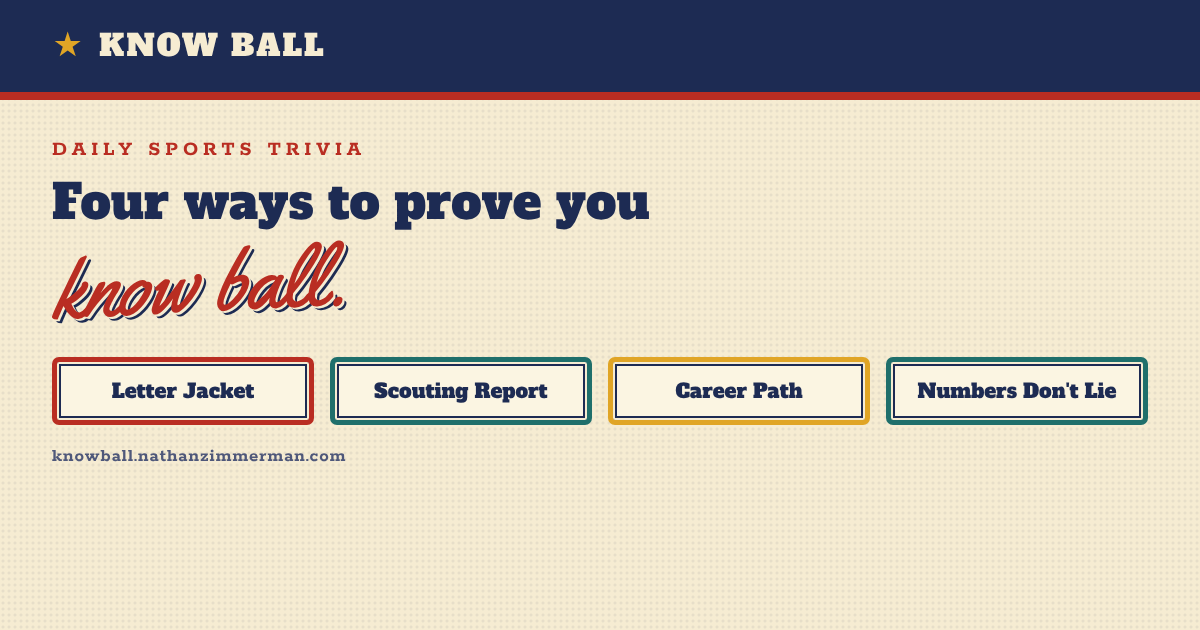
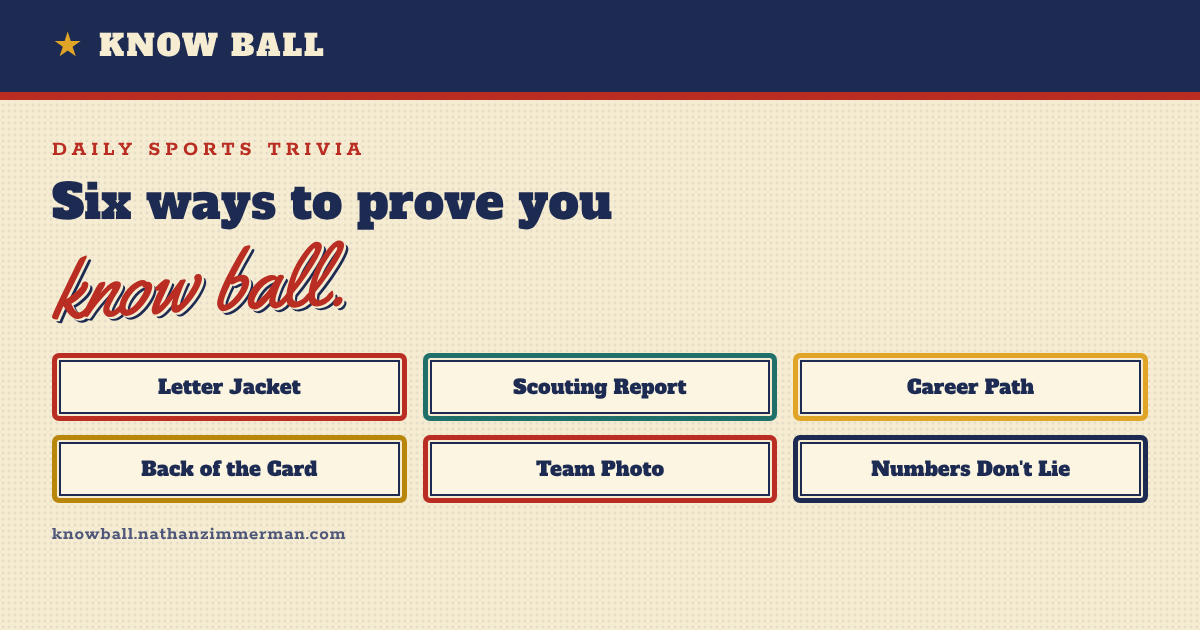
Say six games in the page description, share preview and README
The search description, the link preview text and image, and the app
manifest still described four games. The preview image is rebuilt from
its script with all six.

Claude-Session: https://claude.ai/code/session_01LorK6dxVKRJbxz4FyzsbjC

Changed region(s): [[0.0308, 0.5429, 0.9558, 0.8143], [0.0308, 0.2714, 0.555, 0.3619], [0.0308, 0.8444, 0.2775, 0.8746]]

diff --git a/web/know-ball/src/index.html b/web/know-ball/src/index.html
@@ -6,16 +6,16 @@
   <base href="/">
   <meta name="viewport" content="width=device-width, initial-scale=1, viewport-fit=cover">
   <meta name="theme-color" content="#1d2b53">
-  <meta name="description" content="Four ways to prove you know ball: guess the player, trace the career, find the sports word, and test your sports knowledge.">
+  <meta name="description" content="Six ways to prove you know ball: four daily guess-the-player games, a daily sports quiz and a sports word game you can play anytime.">
   <meta property="og:type" content="website">
   <meta property="og:site_name" content="Know Ball">
   <meta property="og:title" content="Know Ball — Daily Sports Trivia">
-  <meta property="og:description" content="Four ways to prove you know ball: Scouting Report, Career Path, Letter Jacket, and Numbers Don't Lie.">
+  <meta property="og:description" content="Six ways to prove you know ball: Scouting Report, Career Path, Back of the Card, Team Photo, Numbers Don't Lie and Letter Jacket.">
   <meta property="og:url" content="https://knowball.nathanzimmerman.com/">
   <meta property="og:image" content="https://knowball.nathanzimmerman.com/social-card.png">
   <meta property="og:image:width" content="1200">
   <meta property="og:image:height" content="630">
-  <meta property="og:image:alt" content="Know Ball. Four ways to prove you know ball: Letter Jacket, Scouting Report, Career Path, and Numbers Don't Lie.">
+  <meta property="og:image:alt" content="Know Ball. Six ways to prove you know ball: Letter Jacket, Scouting Report, Career Path, Back of the Card, Team Photo and Numbers Don't Lie.">
   <meta name="twitter:card" content="summary_large_image">
   <link rel="icon" type="image/svg+xml" href="favicon.svg">
   <link rel="manifest" href="manifest.webmanifest">

diff --git a/README.md b/README.md
@@ -1,6 +1,6 @@
 # Know Ball
 
-Sports trivia: three daily guess-the-player games, a daily sports trivia quiz and an unlimited word game, with new
+Sports trivia: four daily guess-the-player games, a daily sports trivia quiz and an unlimited word game, with new
 dailies at midnight Eastern. Angular front end, ASP.NET Core API and PostgreSQL, fed by a nightly import of every NBA player
 since 1947.
 
